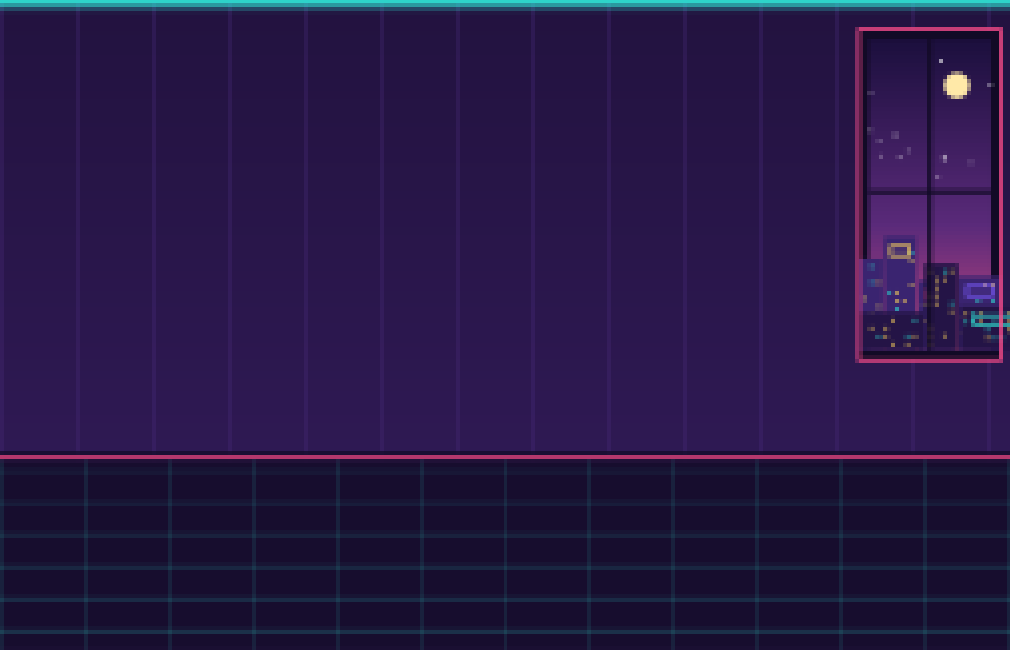
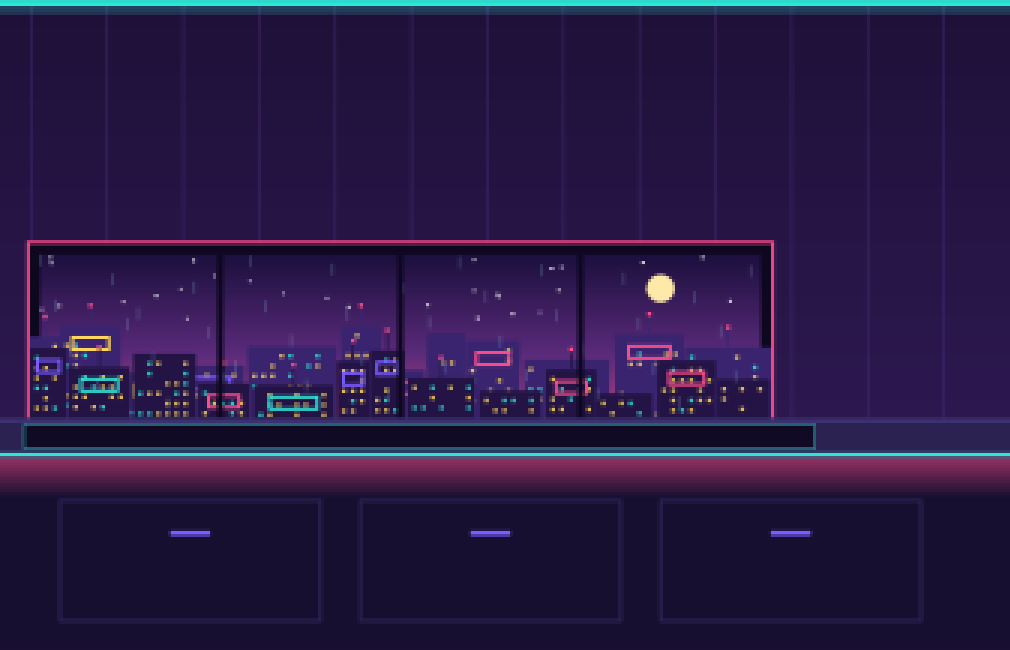
데스크 클로즈업: 바닥 소품 제거, 네온 도시 창, 디테일 스프라이트, 책상 위 PC
Claude-Session: https://claude.ai/code/session_015NHYVWJqA9gnniJqxpTcqF

diff --git a/tools/make_sprites.js b/tools/make_sprites.js
@@ -4,109 +4,131 @@ const OUT = path.join(__dirname, '..', 'resource');
 const S = {};
 const shadow = (cx, y, rx) => `<ellipse cx="${cx}" cy="${y}" rx="${rx}" ry="4" fill="#000" opacity=".18"/>`;
 
-// ---- 책상 위 (바닥선 = 높이) ----
-S.monitor = [188, 118, `
-  ${shadow(94,115,50)}
-  <rect x="64" y="108" width="60" height="8" rx="3" fill="#3a3d55"/>
-  <rect x="88" y="86" width="12" height="24" fill="#4a4e69"/>
-  <rect x="4" y="2" width="180" height="88" rx="6" fill="#1f2133"/>
-  <defs><linearGradient id="sc" x1="0" y1="0" x2="1" y2="1"><stop offset="0" stop-color="#3a1d6e"/><stop offset="1" stop-color="#b03a8c"/></linearGradient></defs>
-  <rect x="10" y="8" width="168" height="74" rx="2" fill="url(#sc)"/>
-  <rect x="18" y="16" width="60" height="5" rx="2" fill="#f2a541"/><rect x="18" y="27" width="92" height="5" rx="2" fill="#9fd3c7"/>
-  <rect x="30" y="38" width="70" height="5" rx="2" fill="#e9e4f0"/><rect x="30" y="49" width="48" height="5" rx="2" fill="#e76f51"/>
-  <rect x="18" y="60" width="80" height="5" rx="2" fill="#9fd3c7"/>
-  <path d="M120 8 L178 8 L178 40 Z" fill="#fff" opacity=".08"/>`];
-S.keyboard = [88, 26, `${shadow(44,24,40)}<rect x="2" y="6" width="84" height="16" rx="4" fill="#c9ccd6"/>
-  ${[0,1].map(r=>[...Array(9)].map((_,c)=>`<rect x="${7+c*9}" y="${9+r*6}" width="6" height="4" rx="1" fill="#f7f7fa"/>`).join('')).join('')}`];
-S.gaming_kb = [88, 28, `<defs><linearGradient id="rgb" x1="0" x2="1"><stop offset="0" stop-color="#ff4d8d"/><stop offset=".5" stop-color="#7b5cff"/><stop offset="1" stop-color="#2ee6d6"/></linearGradient></defs>
-  <rect x="0" y="20" width="88" height="6" rx="3" fill="url(#rgb)" opacity=".7"/>
-  <rect x="2" y="6" width="84" height="16" rx="4" fill="#1f2133"/>
-  ${[0,1].map(r=>[...Array(9)].map((_,c)=>`<rect x="${7+c*9}" y="${9+r*6}" width="6" height="4" rx="1" fill="url(#rgb)"/>`).join('')).join('')}`];
-const lamp = (shade, glow) => [88, 104, `
-  <path d="M60 30 L88 104 L20 104 Z" fill="${glow}" opacity=".22"/>
-  ${shadow(28,101,22)}<ellipse cx="28" cy="98" rx="20" ry="5" fill="#3a3d55"/>
-  <rect x="25" y="40" width="6" height="58" fill="#4a4e69"/>
-  <path d="M28 44 L56 22" stroke="#4a4e69" stroke-width="6" stroke-linecap="round"/>
-  <path d="M40 8 L76 22 L66 40 L34 24 Z" fill="${shade}"/>
-  <circle cx="58" cy="33" r="5" fill="${glow}"/>`];
+// ---- 책상 위 (바닥선 = 높이). 1칸 = 98px, 2칸 = 208px ----
+const glow = (id, sd) => `<filter id="${id}" x="-50%" y="-50%" width="200%" height="200%"><feGaussianBlur stdDeviation="${sd}"/></filter>`;
+const RGB = (id, v) => `<linearGradient id="${id}" x1="0" y1="0" x2="${v ? 0 : 1}" y2="${v ? 1 : 0}"><stop offset="0" stop-color="#ff4d8d"/><stop offset=".5" stop-color="#7b5cff"/><stop offset="1" stop-color="#2ee6d6"/></linearGradient>`;
+const code = [[0, 'k', 30], [0, 'f', 40], [1, 'v', 50], [1, 's', 34], [2, 'k', 22], [2, 'v', 44], [1, 'f', 60], [0, 'k', 18], [1, 's', 52]];
+const CC = {k: '#ff4d8d', f: '#2ee6d6', v: '#c9b8ff', s: '#ffd65c'};
+S.monitor = [208, 176, `<defs>${glow('mg', 10)}</defs>
+  <ellipse cx="104" cy="70" rx="100" ry="56" fill="#ff4d8d" opacity=".35" filter="url(#mg)"/>
+  <path d="M64 176 L144 176 L136 164 L72 164 Z" fill="#2a2350"/><rect x="64" y="172" width="80" height="4" fill="#3b3170"/>
+  <rect x="96" y="124" width="16" height="42" fill="#231c44"/><rect x="100" y="124" width="3" height="42" fill="#3b3170"/>
+  <rect x="0" y="0" width="208" height="128" rx="4" fill="#0f0a22"/><rect x="0" y="0" width="208" height="128" rx="4" fill="none" stroke="#3b3170" stroke-width="2"/>
+  <rect x="6" y="6" width="196" height="110" fill="#160f30"/>
+  <rect x="6" y="6" width="196" height="12" fill="#221848"/>
+  <rect x="38" y="6" width="44" height="12" fill="#160f30"/><rect x="38" y="16" width="44" height="2" fill="#2ee6d6"/>
+  <rect x="84" y="9" width="36" height="6" fill="#3a2d6e"/><rect x="124" y="9" width="30" height="6" fill="#3a2d6e"/>
+  <rect x="6" y="18" width="30" height="92" fill="#1c1438"/>
+  ${[0,1,2,3,4,5,6].map(i=>`<rect x="10" y="${24+i*11}" width="${8+((i*7)%14)}" height="4" fill="${i==2?'#2ee6d6':'#5a4a96'}"/>`).join('')}
+  ${code.map(([ind,t,w],i)=>`<rect x="40" y="${23+i*9.5}" width="6" height="4" fill="#4a3d80"/><rect x="${52+ind*8}" y="${23+i*9.5}" width="${w}" height="4" fill="${CC[t]}"/><rect x="${56+ind*8+w}" y="${23+i*9.5}" width="${(w*7)%30+6}" height="4" fill="#8f80c8"/>`).join('')}
+  <rect x="${52+16+22}" y="${23+4*9.5}" width="4" height="6" fill="#ffffff"/>
+  <rect x="6" y="110" width="196" height="6" fill="#7b5cff"/><rect x="10" y="111" width="20" height="4" fill="#ffffff" opacity=".6"/>
+  <rect x="98" y="120" width="12" height="3" fill="#2a2350"/><rect x="190" y="121" width="4" height="3" fill="#2ee6d6"/>
+  <path d="M150 6 L202 6 L202 40 Z" fill="#fff" opacity=".05"/>`];
+const kb = (body, key, under, mouse) => [98, 44, `<defs>${RGB('kr')}${glow('kg', 3)}</defs>
+  ${under ? `<rect x="2" y="30" width="72" height="8" fill="url(#kr)" filter="url(#kg)"/>` : ''}
+  <rect x="0" y="12" width="76" height="26" rx="3" fill="${body}"/><rect x="0" y="34" width="76" height="4" fill="#000" opacity=".25"/>
+  ${[0,1,2,3].map(r=>[...Array(r==3?5:10)].map((_,c)=>{const w=r==3?(c==2?22:7):5.6, x=r==3?[3,12,21,45,55][c]:3+c*7.1;return `<rect x="${x}" y="${15+r*5.5}" width="${w}" height="4" fill="${key==='rgb'?`url(#kr)`:key}"/>`}).join('')).join('')}
+  ${mouse}`];
+S.keyboard = kb('#c9ccd6', '#f4f4fa', false, `<rect x="80" y="20" width="16" height="22" rx="8" fill="#e6e8f0"/><rect x="87" y="22" width="2" height="7" fill="#9aa0b4"/>`);
+S.gaming_kb = kb('#14102a', 'rgb', true, `<rect x="80" y="20" width="16" height="22" rx="8" fill="#14102a"/><rect x="87" y="22" width="2" height="7" fill="#2ee6d6"/><rect x="80" y="36" width="16" height="3" fill="#ff4d8d"/>`);
+const lamp = (shade, light) => [98, 180, `<defs>${glow('lg', 6)}</defs>
+  <path d="M74 66 L98 180 L22 180 Z" fill="${light}" opacity=".18"/>
+  <ellipse cx="74" cy="66" rx="16" ry="8" fill="${light}" filter="url(#lg)"/>
+  <rect x="6" y="170" width="44" height="10" rx="2" fill="#2a2350"/><rect x="6" y="170" width="44" height="3" fill="#3b3170"/>
+  <rect x="24" y="162" width="8" height="8" fill="#3b3170"/><circle cx="28" cy="160" r="5" fill="#ff4d8d"/>
+  <path d="M28 160 L18 96" stroke="#3b3170" stroke-width="6"/><path d="M26 160 L16 96" stroke="#5a4a96" stroke-width="2"/>
+  <circle cx="18" cy="96" r="5" fill="#2ee6d6"/>
+  <path d="M18 96 L56 42" stroke="#3b3170" stroke-width="6"/><path d="M17 94 L55 40" stroke="#5a4a96" stroke-width="2"/>
+  <circle cx="56" cy="42" r="5" fill="#2ee6d6"/>
+  <path d="M50 30 L92 46 L82 70 L42 50 Z" fill="${shade}"/><path d="M50 30 L92 46 L90 52 L48 36 Z" fill="#fff" opacity=".25"/>
+  <circle cx="74" cy="62" r="6" fill="#fffbe6"/>`];
 S.lamp_warm = lamp('#f2a541', '#ffd27a');
-S.lamp_cool = lamp('#a9d6ea', '#e8f8ff');
-S.book = [88, 62, `${shadow(44,60,40)}
-  <rect x="8" y="44" width="72" height="14" rx="2" fill="#5b8db8"/><rect x="8" y="44" width="72" height="3" fill="#fff" opacity=".5"/>
-  <rect x="14" y="30" width="62" height="14" rx="2" fill="#e76f51"/><rect x="14" y="30" width="62" height="3" fill="#fff" opacity=".5"/>
-  <rect x="10" y="16" width="66" height="14" rx="2" fill="#6a9c78"/><rect x="10" y="16" width="66" height="3" fill="#fff" opacity=".5"/>
-  <rect x="58" y="2" width="12" height="14" rx="1" fill="#f2a541" transform="rotate(12 64 9)"/>`];
-S.mug = [88, 52, `${shadow(40,50,22)}
-  <path d="M34 4 q-6 6 0 12 q6 6 0 12" stroke="#fff" stroke-width="3" fill="none" opacity=".8"/>
-  <path d="M46 2 q-6 6 0 12 q6 6 0 12" stroke="#fff" stroke-width="3" fill="none" opacity=".6"/>
-  <rect x="22" y="20" width="38" height="30" rx="5" fill="#fafafa" stroke="#d5d8e0" stroke-width="2"/>
-  <path d="M60 26 q14 0 14 10 q0 10 -14 10" stroke="#d5d8e0" stroke-width="5" fill="none"/>
-  <rect x="22" y="30" width="38" height="6" fill="#e76f51"/>`];
-S.mini_plant = [88, 76, `${shadow(44,74,24)}
-  <path d="M44 44 C30 30 20 34 14 20 C30 20 40 28 44 44" fill="#6a9c78"/>
-  <path d="M44 44 C58 28 70 32 76 16 C58 18 48 28 44 44" fill="#5a8a68"/>
-  <path d="M44 46 C40 26 46 12 44 2 C52 14 50 30 44 46" fill="#7fb38b"/>
-  <path d="M28 46 L60 46 L55 74 L33 74 Z" fill="#d9774f"/><rect x="26" y="44" width="36" height="7" rx="2" fill="#e88b62"/>`];
-S.mic = [88, 100, `${shadow(44,98,26)}<ellipse cx="44" cy="95" rx="24" ry="5" fill="#2b2d42"/>
-  <rect x="41" y="50" width="6" height="46" fill="#4a4e69"/>
-  <rect x="30" y="8" width="28" height="46" rx="14" fill="#2b2d42"/>
-  ${[0,1,2,3,4].map(i=>`<rect x="34" y="${14+i*7}" width="20" height="2" fill="#8d99ae"/>`).join('')}
-  <rect x="52" y="44" width="10" height="4" rx="2" fill="#e76f51"/>`];
+S.lamp_cool = lamp('#7fd8f0', '#e8fbff');
+S.book = [98, 112, `
+  <rect x="4" y="96" width="90" height="16" fill="#7b5cff"/><rect x="4" y="96" width="90" height="3" fill="#c9b8ff"/><rect x="88" y="99" width="6" height="13" fill="#f4f0ff"/>
+  ${[[8,18,'#ff4d8d',70],[27,14,'#2ee6d6',58],[42,20,'#ffd65c',76],[63,12,'#5a4a96',52],[76,16,'#e76f51',64]].map(([x,w,c,h])=>`<rect x="${x}" y="${96-h}" width="${w}" height="${h}" fill="${c}"/><rect x="${x+2}" y="${96-h+8}" width="${w-4}" height="3" fill="#fff" opacity=".6"/><rect x="${x+2}" y="${96-12}" width="${w-4}" height="3" fill="#000" opacity=".3"/><rect x="${x}" y="${96-h}" width="2" height="${h}" fill="#fff" opacity=".25"/>`).join('')}`];
+S.mug = [98, 78, `
+  <path d="M38 10 q-6 6 0 12 q6 6 0 12 M52 4 q-6 6 0 12 q6 6 0 12" stroke="#c9b8ff" stroke-width="3" fill="none" opacity=".7"/>
+  <ellipse cx="46" cy="74" rx="34" ry="4" fill="#ff4d8d"/><ellipse cx="46" cy="73" rx="30" ry="3" fill="#2a2350"/>
+  <rect x="24" y="30" width="44" height="42" rx="4" fill="#f4f0ff"/><rect x="24" y="30" width="44" height="6" fill="#d8ccff"/>
+  <rect x="26" y="32" width="40" height="4" fill="#4a2c1c"/>
+  <path d="M68 38 q16 0 16 13 q0 13 -16 13" stroke="#d8ccff" stroke-width="6" fill="none"/>
+  <path d="M40 48 h4 v-2 h4 v2 h4 v4 h-2 v4 h-2 v2 h-4 v-2 h-2 v-4 h-2 Z" fill="#ff4d8d"/>`];
+S.mini_plant = [98, 124, `
+  ${[[49,70,-58,'#3f8f6e'],[49,70,-20,'#56b08a'],[49,70,15,'#3f8f6e'],[49,70,50,'#68c49b'],[49,70,-85,'#56b08a']].map(([x,y,r,c])=>`<g transform="rotate(${r} ${x} ${y})"><path d="M${x} ${y} C${x-20} ${y-26} ${x-12} ${y-58} ${x} ${y-66} C${x+12} ${y-58} ${x+20} ${y-26} ${x} ${y}" fill="${c}"/><path d="M${x} ${y} L${x} ${y-60}" stroke="#2c6b51" stroke-width="2"/></g>`).join('')}
+  <path d="M24 78 L74 78 L68 124 L30 124 Z" fill="#2a2350"/><rect x="20" y="74" width="58" height="10" fill="#3b3170"/>
+  ${[0,1,2,3].map(i=>`<rect x="${32+i*9}" y="94" width="5" height="5" fill="#2ee6d6"/><rect x="${36+i*9}" y="106" width="5" height="5" fill="#ff4d8d"/>`).join('')}`];
+S.mic = [98, 180, `<defs>${glow('pg', 4)}</defs>
+  <rect x="6" y="160" width="22" height="20" fill="#2a2350"/><rect x="2" y="174" width="30" height="6" fill="#3b3170"/>
+  <path d="M17 160 L30 98" stroke="#3b3170" stroke-width="5"/><circle cx="30" cy="98" r="4" fill="#2ee6d6"/>
+  <path d="M30 98 L62 50" stroke="#3b3170" stroke-width="5"/><path d="M28 98 L60 50" stroke="#5a4a96" stroke-width="1"/>
+  <circle cx="66" cy="48" r="16" fill="none" stroke="#5a4a96" stroke-width="3"/>
+  <rect x="56" y="6" width="22" height="50" rx="11" fill="#1c1438"/><rect x="56" y="6" width="22" height="50" rx="11" fill="none" stroke="#5a4a96" stroke-width="2"/>
+  ${[0,1,2,3,4,5].map(i=>`<rect x="60" y="${12+i*6}" width="14" height="2" fill="#7b6bb8"/>`).join('')}
+  <rect x="58" y="46" width="18" height="3" fill="#ff4d8d" filter="url(#pg)"/><rect x="58" y="46" width="18" height="3" fill="#ff4d8d"/>
+  <circle cx="30" cy="40" r="18" fill="#2ee6d6" opacity=".12"/><circle cx="30" cy="40" r="18" fill="none" stroke="#2a2350" stroke-width="3"/>`];
+S.headset = [98, 150, `<defs>${RGB('hr', 1)}${glow('hg', 4)}</defs>
+  <ellipse cx="49" cy="146" rx="30" ry="4" fill="#3b3170"/><rect x="22" y="138" width="54" height="8" fill="#2a2350"/>
+  <rect x="45" y="40" width="8" height="98" fill="#2a2350"/><rect x="47" y="40" width="2" height="98" fill="#5a4a96"/>
+  <path d="M20 70 Q20 28 49 28 Q78 28 78 70" stroke="#14102a" stroke-width="9" fill="none"/>
+  <path d="M20 70 Q20 28 49 28 Q78 28 78 70" stroke="#5a4a96" stroke-width="2" fill="none"/>
+  ${[14,72].map(x=>`<rect x="${x-2}" y="62" width="16" height="34" rx="6" fill="url(#hr)" filter="url(#hg)" opacity=".8"/><rect x="${x}" y="64" width="12" height="30" rx="5" fill="#14102a"/><rect x="${x+3}" y="70" width="6" height="18" fill="url(#hr)"/>`).join('')}`];
 
 // ---- 벽 (밴드 안 가운데) ----
-S.shelf = [188, 74, `
-  <rect x="20" y="10" width="14" height="44" rx="3" fill="#e76f51"/><rect x="36" y="16" width="14" height="38" rx="3" fill="#5b8db8"/>
-  <rect x="52" y="6" width="14" height="48" rx="3" fill="#f2a541"/><rect x="68" y="18" width="12" height="36" rx="3" fill="#6a9c78" transform="rotate(-12 74 36)"/>
-  <path d="M130 54 q-14 -2 -12 -22 q2 -18 14 -22 q12 4 14 22 q2 20 -12 22 Z" fill="#c9ada7"/>
-  <path d="M132 14 q-8 -10 -2 -14 M134 14 q6 -10 12 -8" stroke="#6a9c78" stroke-width="3" fill="none"/>
-  <rect x="160" y="34" width="18" height="20" rx="3" fill="#2b2d42"/>
-  <rect x="0" y="54" width="188" height="9" rx="2" fill="#8b5e3c"/><rect x="0" y="54" width="188" height="3" fill="#a8774f"/>
-  <path d="M24 63 L24 74 L38 63 Z M150 63 L164 74 L164 63 Z" fill="#6b4429"/>`];
-S.frame = [88, 84, `<rect x="6" y="4" width="76" height="76" rx="3" fill="#8b5e3c"/><rect x="14" y="12" width="60" height="60" fill="#f7efe6"/>
-  <rect x="14" y="12" width="60" height="34" fill="#bfd7ea"/><circle cx="58" cy="26" r="7" fill="#f2a541"/>
-  <path d="M14 56 L32 34 L46 50 L56 40 L74 58 L74 72 L14 72 Z" fill="#6a9c78"/>`];
-S.rgb_bar = [188, 40, `<defs><linearGradient id="bar" x1="0" x2="1"><stop offset="0" stop-color="#ff4d8d"/><stop offset=".5" stop-color="#7b5cff"/><stop offset="1" stop-color="#2ee6d6"/></linearGradient>
-  <filter id="b" x="-20%" y="-200%" width="140%" height="500%"><feGaussianBlur stdDeviation="6"/></filter></defs>
-  <rect x="8" y="14" width="172" height="12" rx="6" fill="url(#bar)" filter="url(#b)" opacity=".9"/>
-  <rect x="8" y="16" width="172" height="8" rx="4" fill="url(#bar)"/>`];
-S.wall_light = [88, 80, `<defs><radialGradient id="wg"><stop offset="0" stop-color="#ffe2a0" stop-opacity=".9"/><stop offset="1" stop-color="#ffe2a0" stop-opacity="0"/></radialGradient></defs>
-  <circle cx="44" cy="44" r="40" fill="url(#wg)"/>
-  <rect x="36" y="20" width="16" height="44" rx="4" fill="#8b5e3c"/>
-  <path d="M26 22 L62 22 L56 4 L32 4 Z" fill="#f7efe6"/><circle cx="44" cy="26" r="6" fill="#fff6d6"/>`];
-S.hanging_plant = [88, 92, `<path d="M44 0 L30 30 M44 0 L58 30" stroke="#8b5e3c" stroke-width="2"/>
-  <path d="M26 30 L62 30 L56 52 L32 52 Z" fill="#f7efe6" stroke="#c9ada7"/>
-  <path d="M32 50 q-8 20 -4 40 M40 52 q-2 16 2 30 M52 52 q6 18 2 34 M58 48 q12 14 10 30" stroke="#5a8a68" stroke-width="4" fill="none" stroke-linecap="round"/>
-  ${[[28,70],[30,84],[42,76],[54,74],[56,88],[66,66],[66,78]].map(([x,y])=>`<ellipse cx="${x}" cy="${y}" rx="6" ry="4" fill="#7fb38b"/>`).join('')}
-  <path d="M28 30 q8 -14 16 -2 q8 -14 16 2" fill="#6a9c78"/>`];
+S.shelf = [208, 130, `
+  ${[[14,14,'#ff4d8d',54],[30,12,'#2ee6d6',44],[44,16,'#7b5cff',60],[62,10,'#ffd65c',40]].map(([x,w,c,h])=>`<rect x="${x}" y="${100-h}" width="${w}" height="${h}" fill="${c}"/><rect x="${x+2}" y="${100-h+6}" width="${w-4}" height="2" fill="#fff" opacity=".6"/>`).join('')}
+  <rect x="86" y="62" width="26" height="30" fill="#c9ccd6"/><rect x="88" y="64" width="22" height="16" fill="#1c1438"/><rect x="92" y="70" width="4" height="4" fill="#2ee6d6"/><rect x="102" y="70" width="4" height="4" fill="#2ee6d6"/>
+  <rect x="96" y="54" width="6" height="8" fill="#c9ccd6"/><rect x="98" y="50" width="2" height="4" fill="#ff4d8d"/><rect x="82" y="92" width="34" height="8" fill="#9aa0b4"/>
+  <rect x="130" y="70" width="22" height="22" fill="#56b08a"/><rect x="134" y="62" width="14" height="10" fill="#56b08a"/><rect x="128" y="80" width="6" height="8" fill="#56b08a"/><rect x="148" y="74" width="6" height="8" fill="#56b08a"/>
+  <rect x="126" y="90" width="30" height="10" fill="#e76f51"/>
+  <rect x="166" y="56" width="28" height="44" fill="#1c1438"/><circle cx="180" cy="70" r="7" fill="#3b3170"/><circle cx="180" cy="88" r="8" fill="#3b3170"/><circle cx="180" cy="88" r="3" fill="#2ee6d6"/>
+  <rect x="0" y="100" width="208" height="12" fill="#2a2350"/><rect x="0" y="100" width="208" height="3" fill="#7b5cff"/><rect x="0" y="112" width="208" height="2" fill="#ff4d8d" opacity=".7"/>
+  <path d="M26 114 L26 130 L42 114 Z M182 114 L182 130 L166 114 Z" fill="#1d1838"/>`];
+S.frame = [98, 116, `<defs>${glow('fg', 4)}</defs>
+  <rect x="6" y="4" width="86" height="108" fill="none" stroke="#ff4d8d" stroke-width="4" filter="url(#fg)"/>
+  <rect x="6" y="4" width="86" height="108" fill="#120a26" stroke="#2a2350" stroke-width="6"/>
+  <rect x="12" y="10" width="74" height="96" fill="#2a124a"/><rect x="12" y="10" width="74" height="50" fill="#4a1d6a"/>
+  <circle cx="49" cy="60" r="22" fill="#ffd65c"/>${[0,1,2,3].map(i=>`<rect x="26" y="${48+i*5}" width="46" height="2" fill="#4a1d6a"/>`).join('')}
+  <rect x="12" y="60" width="74" height="46" fill="#1b0f3d"/>
+  ${[0,1,2,3,4].map(i=>`<rect x="12" y="${64+i*9}" width="74" height="1.5" fill="#ff4d8d"/>`).join('')}
+  ${[-3,-2,-1,0,1,2,3].map(i=>`<path d="M49 60 L${49+i*16} 106" stroke="#2ee6d6" stroke-width="1.2"/>`).join('')}`];
+S.rgb_bar = [208, 44, `<defs>${RGB('bar')}${glow('b', 7)}</defs>
+  <rect x="8" y="16" width="192" height="12" rx="6" fill="url(#bar)" filter="url(#b)" opacity=".9"/>
+  <rect x="8" y="18" width="192" height="8" fill="#14102a"/><rect x="10" y="20" width="188" height="4" fill="url(#bar)"/>`];
+S.wall_light = [98, 120, `<defs><radialGradient id="wg"><stop offset="0" stop-color="#2ee6d6" stop-opacity=".6"/><stop offset="1" stop-color="#2ee6d6" stop-opacity="0"/></radialGradient></defs>
+  <circle cx="49" cy="60" r="48" fill="url(#wg)"/>
+  <rect x="40" y="14" width="18" height="92" fill="#14102a"/><rect x="44" y="20" width="10" height="80" fill="#2ee6d6"/><rect x="47" y="22" width="4" height="76" fill="#e8fffd"/>
+  <rect x="36" y="8" width="26" height="8" fill="#2a2350"/><rect x="36" y="104" width="26" height="8" fill="#2a2350"/>`];
+S.hanging_plant = [98, 140, `<path d="M49 0 L30 38 M49 0 L68 38" stroke="#7b5cff" stroke-width="2"/>
+  <path d="M26 38 L72 38 L64 64 L34 64 Z" fill="#2a2350"/><rect x="26" y="38" width="46" height="5" fill="#ff4d8d"/>
+  <path d="M34 60 q-12 30 -6 70 M44 64 q-4 24 2 52 M58 64 q8 26 2 60 M66 58 q16 18 12 46" stroke="#2c6b51" stroke-width="3" fill="none"/>
+  ${[[28,84],[26,104],[30,124],[44,90],[46,110],[58,88],[62,108],[58,122],[74,74],[78,94]].map(([x,y],i)=>`<rect x="${x-5}" y="${y-3}" width="10" height="7" fill="${i%2?'#56b08a':'#68c49b'}"/>`).join('')}
+  <path d="M30 38 q10 -16 19 -2 q9 -16 19 2" fill="#3f8f6e"/>`];
+S.neon_sign = [208, 112, `<defs>${glow('ng', 5)}</defs>
+  <rect x="2" y="2" width="204" height="108" rx="6" fill="#120a26" opacity=".6"/>
+  <g filter="url(#ng)"><path d="M40 30 L18 56 L40 82 M168 30 L190 56 L168 82 M118 22 L90 90" stroke="#ff4d8d" stroke-width="8" fill="none"/></g>
+  <path d="M40 30 L18 56 L40 82 M168 30 L190 56 L168 82" stroke="#ffd0e2" stroke-width="3" fill="none"/>
+  <g filter="url(#ng)"><path d="M118 22 L90 90" stroke="#2ee6d6" stroke-width="8"/></g><path d="M118 22 L90 90" stroke="#e8fffd" stroke-width="3"/>`];
 
-// ---- 바닥 (바닥선 = 높이) ----
-S.rug = [288, 34, `<ellipse cx="144" cy="18" rx="140" ry="15" fill="#e7a08c"/><ellipse cx="144" cy="18" rx="118" ry="11" fill="none" stroke="#f7efe6" stroke-width="3" stroke-dasharray="10 6"/>
-  <ellipse cx="144" cy="18" rx="80" ry="6" fill="#d9846e"/>`];
-S.big_plant = [88, 150, `${shadow(44,148,30)}
-  <path d="M44 100 C20 80 6 90 2 60 C26 64 38 78 44 100" fill="#5a8a68"/><path d="M44 100 C70 76 82 86 86 54 C62 60 50 76 44 100" fill="#6a9c78"/>
-  <path d="M44 100 C30 60 40 30 30 4 C50 26 54 66 44 100" fill="#7fb38b"/><path d="M44 100 C56 60 70 46 66 20 C50 40 42 70 44 100" fill="#5a8a68"/>
-  <path d="M22 100 L66 100 L60 148 L28 148 Z" fill="#e9e4f0" stroke="#c9ada7" stroke-width="2"/><rect x="20" y="98" width="48" height="8" rx="3" fill="#f7f4fa"/>`];
-const chair = (seat, back, accent) => [188, 160, `${shadow(94,157,52)}
-  ${[30,94,158].map(x=>`<circle cx="${x}" cy="152" r="6" fill="#2b2d42"/>`).join('')}
-  <path d="M30 150 L94 132 L158 150" stroke="#3a3d55" stroke-width="7" fill="none"/>
-  <rect x="88" y="104" width="12" height="30" fill="#4a4e69"/>
-  <rect x="28" y="90" width="132" height="20" rx="9" fill="${seat}"/>
-  <rect x="44" y="4" width="100" height="92" rx="16" fill="${back}"/>
-  ${accent}`];
-S.chair = chair('#8d99ae', '#a3adbf', `<rect x="58" y="16" width="72" height="6" rx="3" fill="#c3cad6"/>`);
-S.gaming_chair = chair('#2b2d42', '#2b2d42', `<path d="M60 8 L80 8 L74 96 L66 96 Z M128 8 L108 8 L114 96 L122 96 Z" fill="#c8323c"/>
-  <rect x="64" y="20" width="60" height="16" rx="8" fill="#c8323c"/><rect x="18" y="80" width="18" height="10" rx="4" fill="#c8323c"/><rect x="152" y="80" width="18" height="10" rx="4" fill="#c8323c"/>`);
-
-// ---- PC 케이스 ----
-const tower = (body, panel, inner) => [84, 196, `${shadow(42,194,40)}
-  <rect x="2" y="2" width="80" height="190" rx="6" fill="${body}"/>
-  <rect x="10" y="12" width="58" height="160" rx="4" fill="${panel}"/>${inner}
-  <rect x="72" y="16" width="5" height="5" rx="2" fill="#6be675"/>`];
-const fans = c => [40, 80, 120].map(y => `<circle cx="39" cy="${y}" r="16" fill="none" stroke="${c}" stroke-width="4"/><circle cx="39" cy="${y}" r="4" fill="${c}"/>`).join('');
-S.case1 = tower('#2b2d42', '#3a3d55', fans('#5b6078'));
-S.case2 = tower('#f2f3f7', '#dfe3ec', fans('#b9c0cf'));
-S.case3 = tower('#1a1b29', '#262840', fans('#ff4d8d').replace(/#ff4d8d/g, 'url(#rgb)') + `<defs><linearGradient id="rgb" x1="0" y1="0" x2="0" y2="1"><stop offset="0" stop-color="#ff4d8d"/><stop offset=".5" stop-color="#7b5cff"/><stop offset="1" stop-color="#2ee6d6"/></linearGradient></defs>`);
-S.case_empty = [84, 196, `<rect x="2" y="2" width="80" height="190" rx="6" fill="none" stroke="#8d99ae" stroke-width="3" stroke-dasharray="8 6"/>`];
+// ---- PC 케이스 (책상 위, 160 x 262) ----
+const tower = (body, glass, fan, extra) => [160, 262, `<defs>${RGB('cr', 1)}${glow('cg', 5)}</defs>
+  <rect x="2" y="2" width="156" height="254" rx="5" fill="${body}"/><rect x="2" y="250" width="156" height="12" fill="#0a0618"/>
+  <rect x="12" y="14" width="104" height="226" fill="${glass}"/>
+  <rect x="20" y="22" width="88" height="120" fill="#1c1438"/>
+  <rect x="36" y="38" width="30" height="30" fill="#2a2350"/><circle cx="51" cy="53" r="11" fill="none" stroke="${fan}" stroke-width="3"/>
+  ${[0,1,2,3].map(i=>`<rect x="${76+i*6}" y="34" width="3" height="40" fill="${fan}"/>`).join('')}
+  <rect x="20" y="96" width="88" height="20" fill="#0f0a22"/><rect x="20" y="114" width="88" height="3" fill="${fan}"/>
+  <circle cx="44" cy="106" r="7" fill="#2a2350"/><circle cx="72" cy="106" r="7" fill="#2a2350"/>
+  <rect x="20" y="170" width="88" height="60" fill="#0f0a22"/><rect x="26" y="176" width="40" height="8" fill="#3b3170"/>
+  ${[0,1,2].map(i=>`<circle cx="138" cy="${54+i*72}" r="18" fill="none" stroke="${fan}" stroke-width="5"/><circle cx="138" cy="${54+i*72}" r="5" fill="${fan}"/>`).join('')}
+  <rect x="122" y="14" width="2" height="226" fill="#000" opacity=".3"/>
+  <path d="M12 14 L60 14 L12 70 Z" fill="#fff" opacity=".07"/>${extra}`];
+S.case1 = tower('#2a2350', '#120a26', '#5a4a96', `<rect x="146" y="6" width="6" height="4" fill="#2ee6d6"/>`);
+S.case2 = tower('#e8e6f2', '#cfcbe0', '#9a94b8', `<rect x="146" y="6" width="6" height="4" fill="#2ee6d6"/>`);
+S.case3 = tower('#14102a', '#0a0618', 'url(#cr)', `<rect x="12" y="236" width="104" height="4" fill="url(#cr)" filter="url(#cg)"/><rect x="146" y="6" width="6" height="4" fill="#ff4d8d"/>`);
+S.case_empty = [160, 262, `<rect x="4" y="4" width="152" height="252" rx="5" fill="#120a26" opacity=".5" stroke="#2ee6d6" stroke-width="3" stroke-dasharray="10 8"/>
+  <rect x="74" y="104" width="12" height="44" fill="#2ee6d6"/><rect x="58" y="120" width="44" height="12" fill="#2ee6d6"/>`];
 
 // ---- 부품 아이콘 ----
 S.part_CPU = [64, 64, `<rect x="10" y="10" width="44" height="44" rx="4" fill="#4a4e69"/><rect x="20" y="20" width="24" height="24" rx="2" fill="#c9ccd6"/>
@@ -146,31 +168,26 @@ const sky = (id) => `<linearGradient id="${id}" x1="0" y1="0" x2="0" y2="1"><sto
 const stars = (w, h, n, seed) => { let r = seed, o = ''; const rnd = () => (r = (r * 48271) % 2147483647) / 2147483647;
   for (let i = 0; i < n; i++) o += `<rect x="${rnd() * w}" y="${rnd() * h}" width="3" height="3" fill="#fff" opacity="${.4 + rnd() * .6}"/>`; return o; };
 
-// ---- 방 배경 (x 270~1280, y 0~650 영역 = 1010 x 650) ----
-const W = 1010, H = 650, floorH = 190;
+// ---- 방 배경 (x 270~1280, y 0~650 영역 = 1010 x 650). 화면 y = 650 - 배경 y ----
+const W = 1010, H = 650;
 S.room_bg = [W, H, `<defs>
-  <linearGradient id="wall" x1="0" y1="0" x2="0" y2="1"><stop offset="0" stop-color="#22123f"/><stop offset="1" stop-color="#341c5c"/></linearGradient>
+  <linearGradient id="wall" x1="0" y1="0" x2="0" y2="1"><stop offset="0" stop-color="#1e1038"/><stop offset="1" stop-color="#341c5c"/></linearGradient>
+  <linearGradient id="under" x1="0" y1="0" x2="0" y2="1"><stop offset="0" stop-color="#ff4d8d" stop-opacity=".55"/><stop offset="1" stop-color="#ff4d8d" stop-opacity="0"/></linearGradient>
   ${sky('sky')}</defs>
   <rect width="${W}" height="${H}" fill="url(#wall)"/>
-  ${[...Array(14)].map((_, i) => `<rect x="${i * 76}" y="0" width="2" height="${H - floorH}" fill="#4a2c7c" opacity=".6"/>`).join('')}
-  <rect x="0" y="0" width="${W}" height="6" fill="#2ee6d6"/><rect x="0" y="6" width="${W}" height="6" fill="#2ee6d6" opacity=".25"/>
-  <g transform="translate(868 40)"><rect x="-10" y="-10" width="142" height="330" fill="#120a26"/>
-    <rect width="122" height="310" fill="url(#sky)"/>${stars(122, 150, 14, 7)}
-    <circle cx="88" cy="46" r="13" fill="#ffe9a8"/>
-    <g transform="translate(0 130)">${city(122, 180, 11, .8)}</g>
-    <rect x="59" y="0" width="4" height="310" fill="#120a26"/><rect x="0" y="150" width="122" height="4" fill="#120a26"/>
-    <rect x="-10" y="-10" width="142" height="330" fill="none" stroke="#ff4d8d" stroke-width="3"/></g>
-  <rect y="${H - floorH - 8}" width="${W}" height="8" fill="#120a26"/><rect y="${H - floorH - 4}" width="${W}" height="3" fill="#ff4d8d"/>
-  <rect y="${H - floorH}" width="${W}" height="${floorH}" fill="#170d2e"/>
-  ${[...Array(6)].map((_, i) => `<rect y="${H - floorH + 10 + i * 32}" width="${W}" height="2" fill="#2ee6d6" opacity="${.15 + i * .05}"/>`).join('')}
-  ${[...Array(13)].map((_, i) => `<rect x="${i * 84}" y="${H - floorH}" width="2" height="${floorH}" fill="#2ee6d6" opacity=".18"/>`).join('')}`];
-
-// 책상 (상판 + 다리 + 서랍) 820 x 272
-S.desk = [820, 272, `<rect x="0" y="0" width="820" height="22" fill="#2a2350"/><rect x="0" y="0" width="820" height="4" fill="#2ee6d6"/>
-  <rect x="14" y="22" width="22" height="250" fill="#1d1838"/><rect x="784" y="22" width="22" height="250" fill="#1d1838"/>
-  <rect x="600" y="22" width="184" height="70" fill="#231c44"/><rect x="606" y="28" width="172" height="58" fill="#2c2454"/>
-  <rect x="672" y="52" width="40" height="6" fill="#ff4d8d"/>
-  <rect x="36" y="22" width="564" height="10" fill="#1d1838"/><rect x="36" y="30" width="564" height="2" fill="#7b5cff"/>`];
+  ${[...Array(14)].map((_, i) => `<rect x="${i * 76 + 30}" y="0" width="2" height="420" fill="#4a2c7c" opacity=".5"/>`).join('')}
+  <rect x="0" y="0" width="${W}" height="6" fill="#2ee6d6"/><rect x="0" y="6" width="${W}" height="8" fill="#2ee6d6" opacity=".2"/>
+  <g transform="translate(40 254)"><rect x="-12" y="-12" width="744" height="190" fill="#0d0720"/>
+    <rect width="720" height="166" fill="url(#sky)"/>${stars(720, 70, 30, 9)}<circle cx="620" cy="34" r="14" fill="#ffe9a8"/>
+    <g transform="translate(0 30)">${city(720, 136, 21, 1)}</g>
+    ${[...Array(40)].map((_, i) => `<rect x="${(i * 97) % 720}" y="${(i * 53) % 150}" width="2" height="12" fill="#9fe9ff" opacity=".22"/>`).join('')}
+    ${[180, 360, 540].map(x => `<rect x="${x - 3}" y="0" width="6" height="166" fill="#0d0720"/>`).join('')}
+    <rect x="-12" y="-12" width="744" height="190" fill="none" stroke="#ff4d8d" stroke-width="3"/></g>
+  <rect x="0" y="418" width="${W}" height="34" fill="#2b2252"/><rect x="0" y="418" width="${W}" height="4" fill="#3d3274"/>
+  <rect x="24" y="424" width="790" height="24" fill="#110a24"/><rect x="24" y="424" width="790" height="24" fill="none" stroke="#2ee6d6" stroke-width="1.5" opacity=".7"/>
+  <rect x="0" y="452" width="${W}" height="5" fill="#2ee6d6"/>
+  <rect x="0" y="457" width="${W}" height="${H - 457}" fill="#160f30"/><rect x="0" y="457" width="${W}" height="40" fill="url(#under)"/>
+  ${[0, 1, 2].map(i => `<rect x="${60 + i * 300}" y="500" width="260" height="120" fill="none" stroke="#2b2252" stroke-width="3"/><rect x="${170 + i * 300}" y="530" width="40" height="5" fill="#7b5cff"/>`).join('')}`];
 
 // 타이틀 배경 1280 x 720
 S.title_bg = [1280, 720, `<defs>${sky('tsky')}</defs><rect width="1280" height="720" fill="url(#tsky)"/>${stars(1280, 360, 80, 3)}
@@ -182,7 +199,7 @@ S.title_bg = [1280, 720, `<defs>${sky('tsky')}</defs><rect width="1280" height="
 (async () => {
   for (const [name, [w, h, body]] of Object.entries(S)) {
     const svg = `<svg xmlns="http://www.w3.org/2000/svg" width="${w}" height="${h}" viewBox="0 0 ${w} ${h}">${body}</svg>`;
-    const f = w > 500 ? 4 : 3;  // 도트 느낌: 작게 줄였다가 nearest로 다시 키움
+    const f = w > 500 ? 3 : 2;  // 도트 느낌: 작게 줄였다가 nearest로 다시 키움
     const small = await sharp(Buffer.from(svg)).resize(Math.ceil(w / f), Math.ceil(h / f), { kernel: 'nearest' }).png().toBuffer();
     await sharp(small).resize(w, h, { kernel: 'nearest' }).png().toFile(path.join(OUT, name + '.png'));
   }

diff --git a/decorate_mode.py b/decorate_mode.py
@@ -11,7 +11,7 @@ from room import LAYERS, LAYER_NAMES, SLOT_X0, SLOT_W, SLOT_COUNT, drop_target
 
 SHOP_W, ROW_H, ROW_TOP = 270, 31, 600
 SHOP_IDS = list(ITEMS)
-PC_RECT = (1168, 80, 1252, 276)
+PC_RECT = (1095, 210, 1255, 470)
 BTN_PC = (930, 10, 1090, 50)
 BTN_DONE = (1100, 10, 1270, 50)
 
@@ -93,13 +93,11 @@ def update():
 
 
 def draw_sprite(item_id, x1, y1, x2, y2):
-    """칸(rect) 안에 소품을 그린다. 책상 위 · 바닥은 바닥선에 붙이고, 벽은 가운데 정렬."""
+    """칸(rect) 안에 소품을 그린다. 책상 위는 상판에 붙이고, 벽은 가운데 정렬."""
     img = sprite(item_id)
     cx = (x1 + x2) // 2
     layer = ITEMS[item_id]['layer']
-    if item_id == 'rug':
-        img.draw(cx, 60 + img.h // 2)
-    elif layer == 'wall':
+    if layer == 'wall':
         img.draw(cx, (y1 + y2) // 2)
     else:
         img.draw(cx, y1 + img.h // 2)
@@ -108,15 +106,13 @@ def draw_sprite(item_id, x1, y1, x2, y2):
 def draw_room():
     sprite('room_bg').draw(SHOP_W + (WIDTH - SHOP_W) // 2, (HEIGHT - 70) // 2)
     by_layer = lambda *layers: [p for p in state.room.placed if p['layer'] in layers]
-    for p in by_layer('wall') + [p for p in by_layer('floor') if p['id'] == 'rug']:
-        draw_sprite(p['id'], *state.room.rect(p))
-    sprite('desk').draw(SLOT_X0 + SLOT_W * SLOT_COUNT // 2, 330 - 136)
-    for p in by_layer('desk') + [p for p in by_layer('floor') if p['id'] != 'rug']:
+    for p in by_layer('wall') + by_layer('desk'):
         draw_sprite(p['id'], *state.room.rect(p))
     case = state.pc.get('CASE')
-    sprite(case or 'case_empty').draw((PC_RECT[0] + PC_RECT[2]) // 2, PC_RECT[1] + 98)
+    img = sprite(case or 'case_empty')
+    img.draw((PC_RECT[0] + PC_RECT[2]) // 2, PC_RECT[1] + img.h // 2)
     label = '부팅 준비' if len(state.pc) == 5 else f"PC 부품 {len(state.pc)}/5"
-    text(PC_RECT[0] - 6, PC_RECT[3] + 14, label, 14, (46, 230, 214))
+    text(PC_RECT[0] + 20, PC_RECT[3] + 16, label, 14, (46, 230, 214))
     if held:
         bottom, h = LAYERS[ITEMS[held]['layer']]
         for s in range(SLOT_COUNT):

diff --git a/room.py b/room.py
@@ -1,13 +1,12 @@
-"""정면 뷰 책상: 벽 · 책상 위 · 바닥 3레이어, 각 레이어는 가로 슬롯 8칸."""
+"""정면 뷰 책상: 2레이어(벽 · 책상 위), 각 레이어는 가로 슬롯 7칸."""
 from common import ITEMS
 
-SLOT_X0, SLOT_W, SLOT_COUNT = 340, 100, 8
+SLOT_X0, SLOT_W, SLOT_COUNT = 300, 110, 7
 LAYERS = {  # layer -> (bottom y, height)
-    'wall': (470, 90),
-    'desk': (330, 80),
-    'floor': (80, 90),
+    'wall': (420, 150),
+    'desk': (210, 190),
 }
-LAYER_NAMES = {'wall': '벽', 'desk': '책상 위', 'floor': '바닥'}
+LAYER_NAMES = {'wall': '벽', 'desk': '책상 위'}
 
 
 class Room:

diff --git a/README.md b/README.md
@@ -35,7 +35,7 @@ python main.py
 |---|---|
 | `main.py`, `game_framework.py` | 실행, 모드 전환 |
 | `title_mode.py` → `request_mode.py` → `decorate_mode.py` ⇄ `build_mode.py` → `result_mode.py` | 화면(모드) |
-| `room.py` | 벽 · 책상 위 · 바닥 3레이어 슬롯 배치 |
+| `room.py` | 벽 · 책상 위 2레이어 슬롯 배치 |
 | `scorer.py` | 채점 · 시너지 · 부팅 판정 (`python scorer.py`로 자체 테스트) |
 | `state.py` | 의뢰 하나 동안의 배치 · PC · 예산 상태 |
 | `data/*.json` | 소품 · 부품 · 의뢰 데이터 (코드 수정 없이 추가) |
